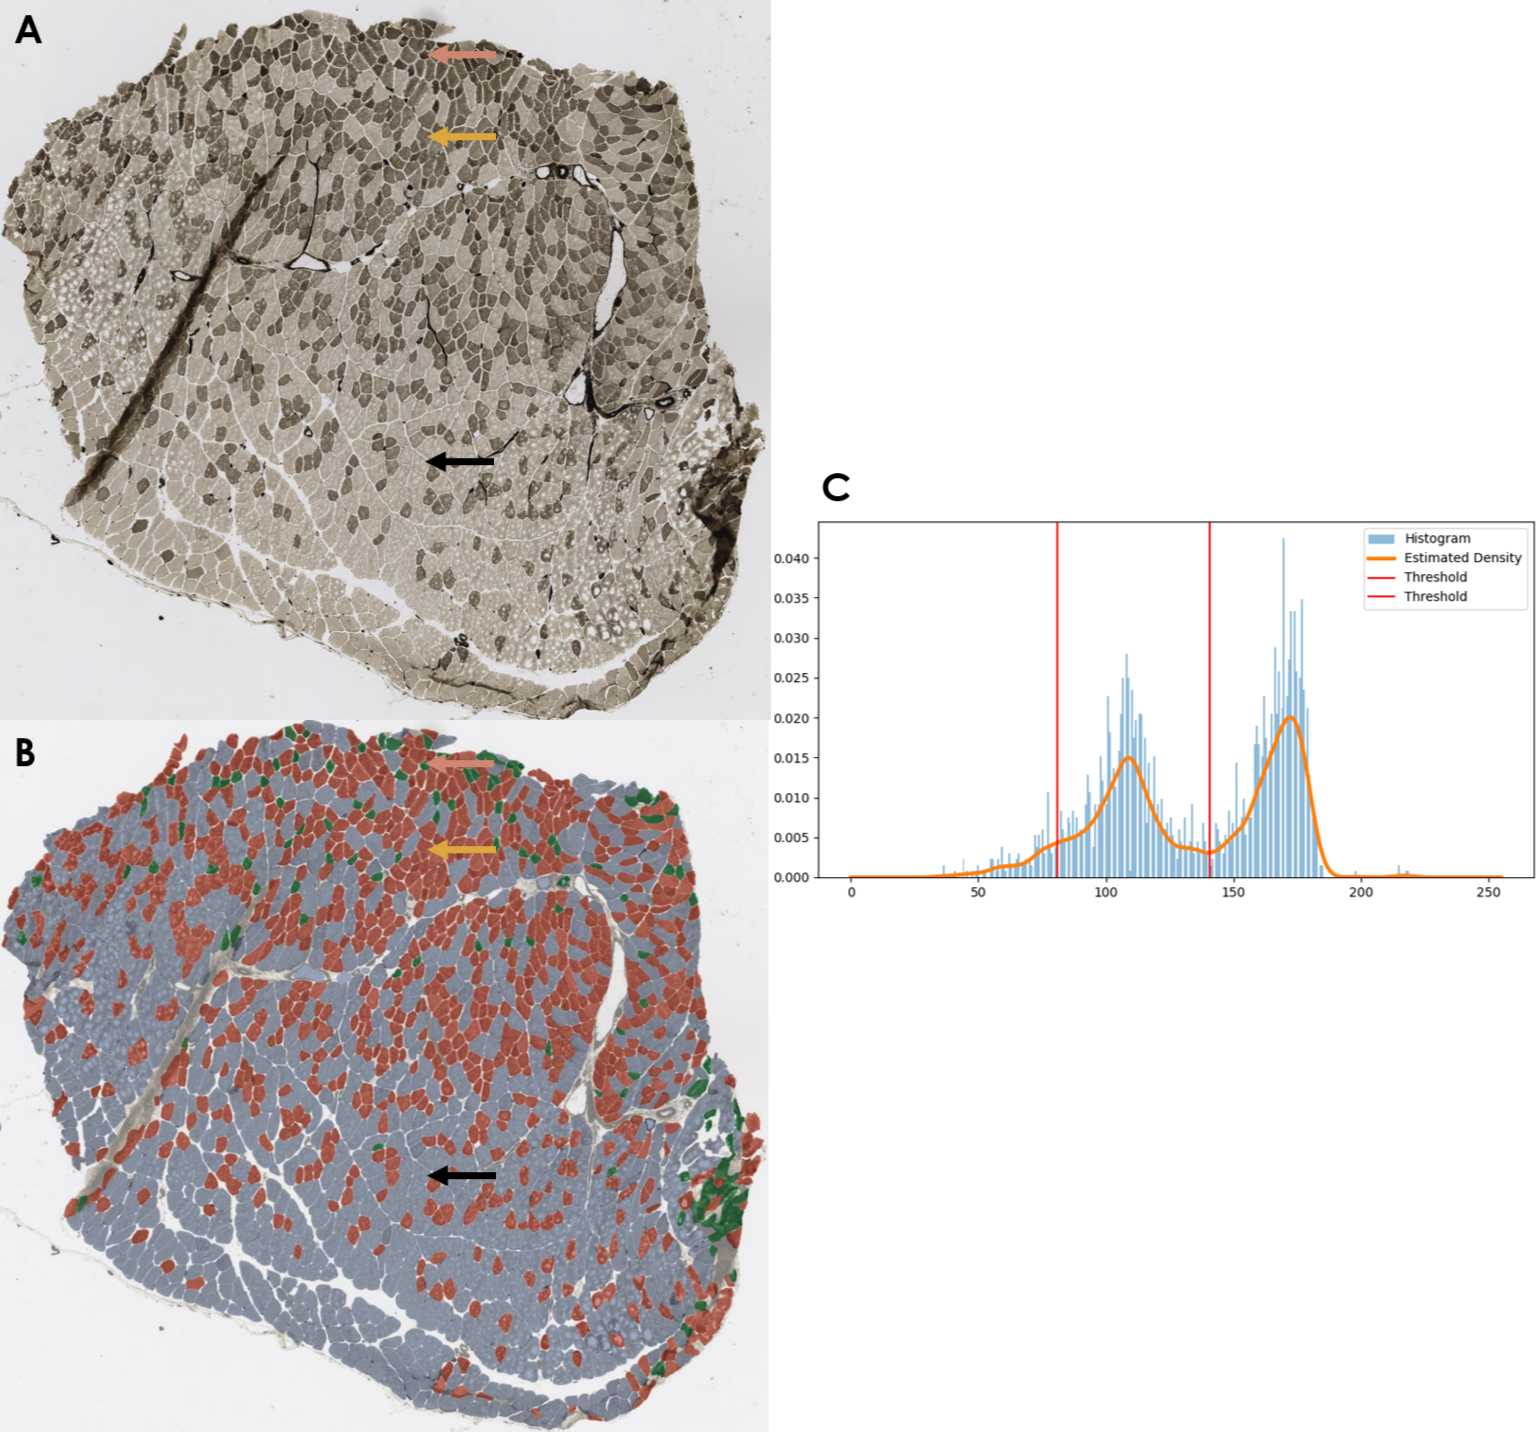
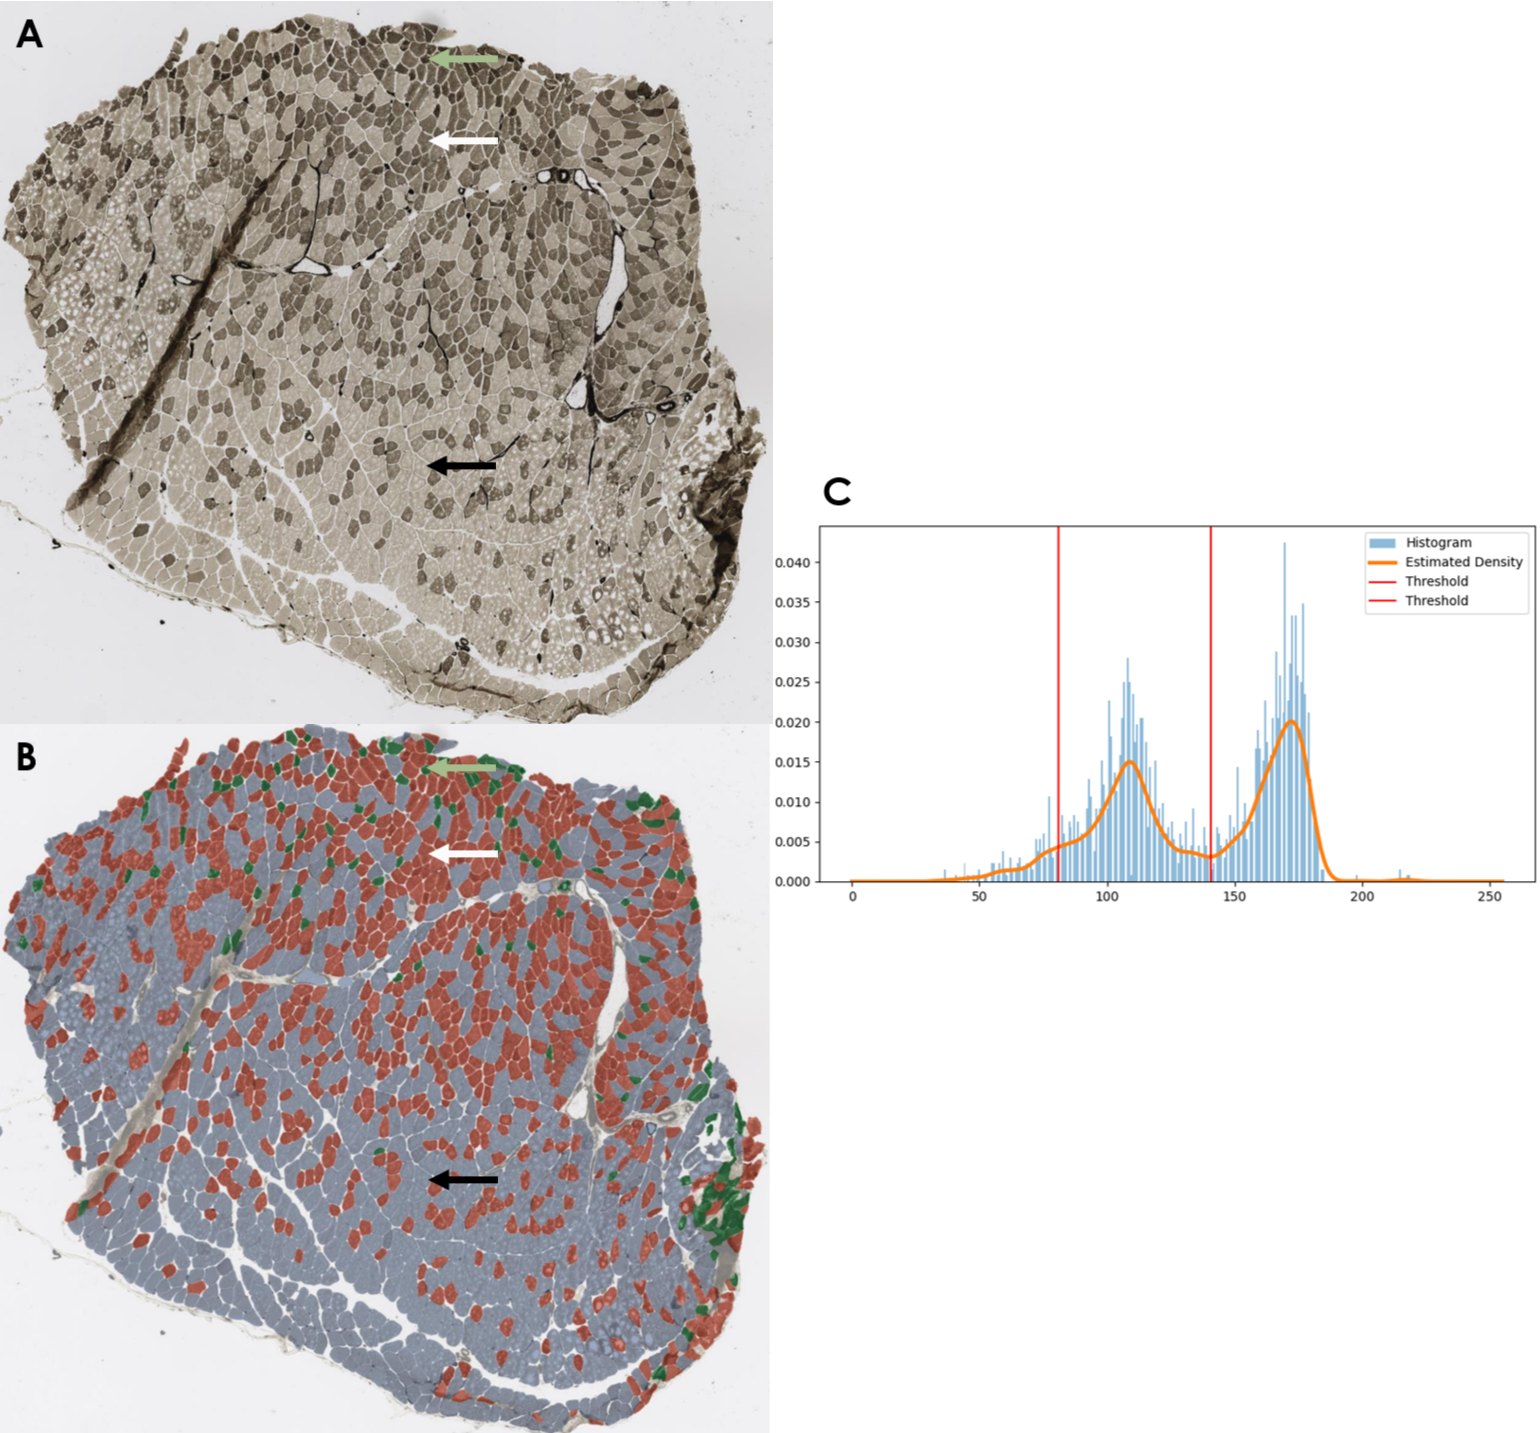
Updates from Overleaf

Changed region(s): [[0.0, 0.0, 0.9993, 1.0], [0.0, 0.5223, 0.0312, 0.5531], [0.0, 0.0, 0.0312, 0.0307]]

diff --git a/corps/chap8.tex b/corps/chap8.tex
@@ -138,11 +138,11 @@ Pour réaliser cette quantification, la première étape consiste à segmenter, 
 \end{figure}
 
 \subsection{Exemple d'application: classification d'une coupe complète avec trois types de fibres}
-La coloration ATPase peut révéler plus de deux types de fibres musculaires. En effet, les fibres de type 2 ont plusieurs sous-types visualisables dans certaines conditions de coloration. Dans cet exemple, nous avons utilisé la méthode de classification développée pour détecter trois types de fibres. La méthode que nous avons développée est capable d'établir autant de seuils automatiquement que spécifiés par l'utilisateur (et donc de classes). La figure \ref{fig:atp_paint_wsi} présente les résultats de classification d'une \gls{wsi} de biopsie musculaire colorée à l'ATP pH 4.6. Sur cette coupe, on observe trois populations de fibres: des fibres pâles (fibres de type 2A), des fibres intermédiaires (fibres de type 2B) et de petites fibres très sombres localisées en haut de la coupe (fibres de type 1). La méthode de quantification a alors pu définir deux seuils pour séparer ces trois classes. 
+La coloration ATPase peut révéler plus de deux types de fibres musculaires. En effet, les fibres de type 2 ont plusieurs sous-types visualisables dans certaines conditions de coloration. Dans cet exemple, nous avons utilisé la méthode de classification développée pour détecter trois types de fibres. La méthode que nous avons développée est capable d'établir autant de seuils automatiquement que spécifiés par l'utilisateur (et donc de classes). La figure \ref{fig:atp_paint_wsi} présente les résultats de classification d'une \gls{wsi} de biopsie musculaire colorée à l'ATP pH 4.6. Sur cette coupe, on observe trois populations de fibres: des fibres pâles (fibres de type 2A, flèche noire), des fibres intermédiaires (fibres de type 2B, flèche blanche) et de petites fibres très sombres localisées en haut de la coupe (fibres de type 1, flèche verte). La méthode de quantification a alors pu définir deux seuils pour séparer ces trois classes. 
 \begin{figure}[!ht]
  \centering
  \includegraphics[width=1\textwidth]{figures/atp_wsi.png}
- \caption[Exemple de classification de biopsie musculaire colorée à l'ATPase]{\textbf{Exemple de classification de biopsie musculaire colorée à l'ATPase pH 4.6 en 3 classes}. \textbf{(A)} Image brute de biopsie musculaire ATPase pH 4.6. \textbf{(B)} Image de biopsie dont les fibres ont été colorées en fonction de leur classification: en bleu les fibres de type 2A, en rouge les fibres de type 2B et en vert les fibres de type 1. \textbf{(C)} Histogramme et courbe de densité des fibres de la biopsie complète.}
+ \caption[Exemple de classification de biopsie musculaire colorée à l'ATPase]{\textbf{Exemple de classification de biopsie musculaire colorée à l'ATPase pH 4.6 en 3 classes}. \textbf{(A)} Image brute de biopsie musculaire ATPase pH 4.6. Pointées par une flèche noire les fibres 2A, blanche les fibres 2B et verte les fibres type 1 \textbf{(B)} Image de biopsie dont les fibres ont été colorées en fonction de leur classification: en bleu les fibres de type 2A, en rouge les fibres de type 2B et en vert les fibres de type 1. \textbf{(C)} Histogramme et courbe de densité des fibres de la biopsie complète.}
  \label{fig:atp_paint_wsi}
 \end{figure}
 

diff --git a/corps/chap5.tex b/corps/chap5.tex
@@ -1,4 +1,4 @@
-\chapter{IMPatienT : annotation et d’exploration de données multimodales de patients}\label{chap_imp}
+\chapter{IMPatienT : annotation et exploration de données multimodales de patients}\label{chap_imp}
 
 Dans un premier temps, nous avons développé \gls{impatient} (fig. \ref{fig:impatient_logo}) une application web qui permet l'annotation semi-automatique de compte rendu et d'images de biopsies musculaires. Cette application web, développée en 2020-2021, c'est à dire avant la mise à disposition des \gls{llms}, permet de créer un jeu de données structuré (tableau de patients) à partir de données non structurées (texte libre et images). Ainsi dans ce contexte-là, pour exploiter des données sous la forme de texte libre, il est nécessaire de procéder à son annotation manuelle afin de les structurer. L'objectif d'\gls{impatient} est de mettre à disposition une interface qui permet la numérisation de ces données non structurée, de les préparer pour l'application des méthodes de \gls{ml} traditionnelles et de fournir des outils d'explorations automatiques.
 
